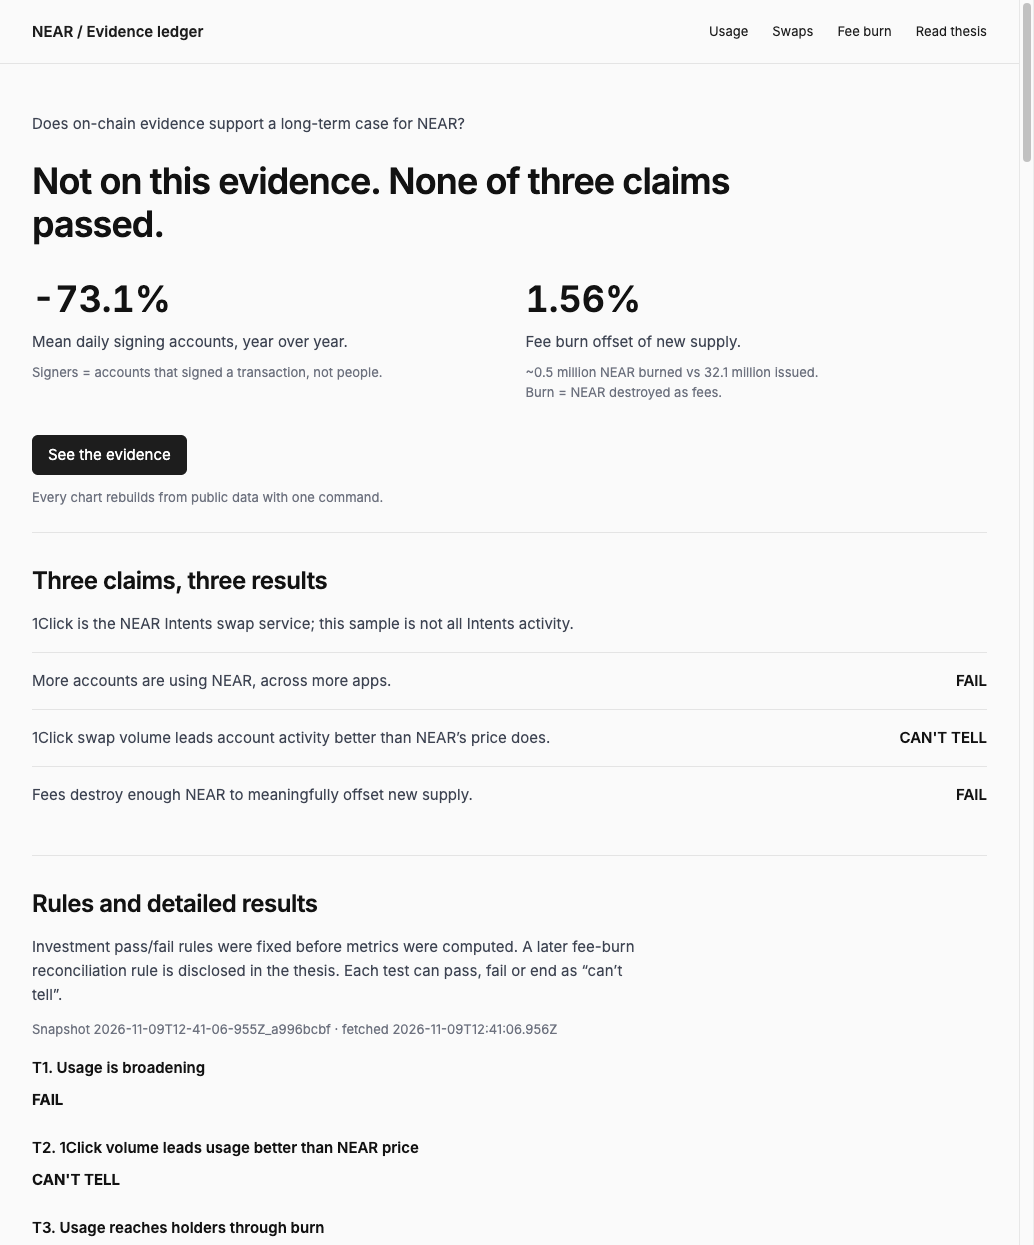
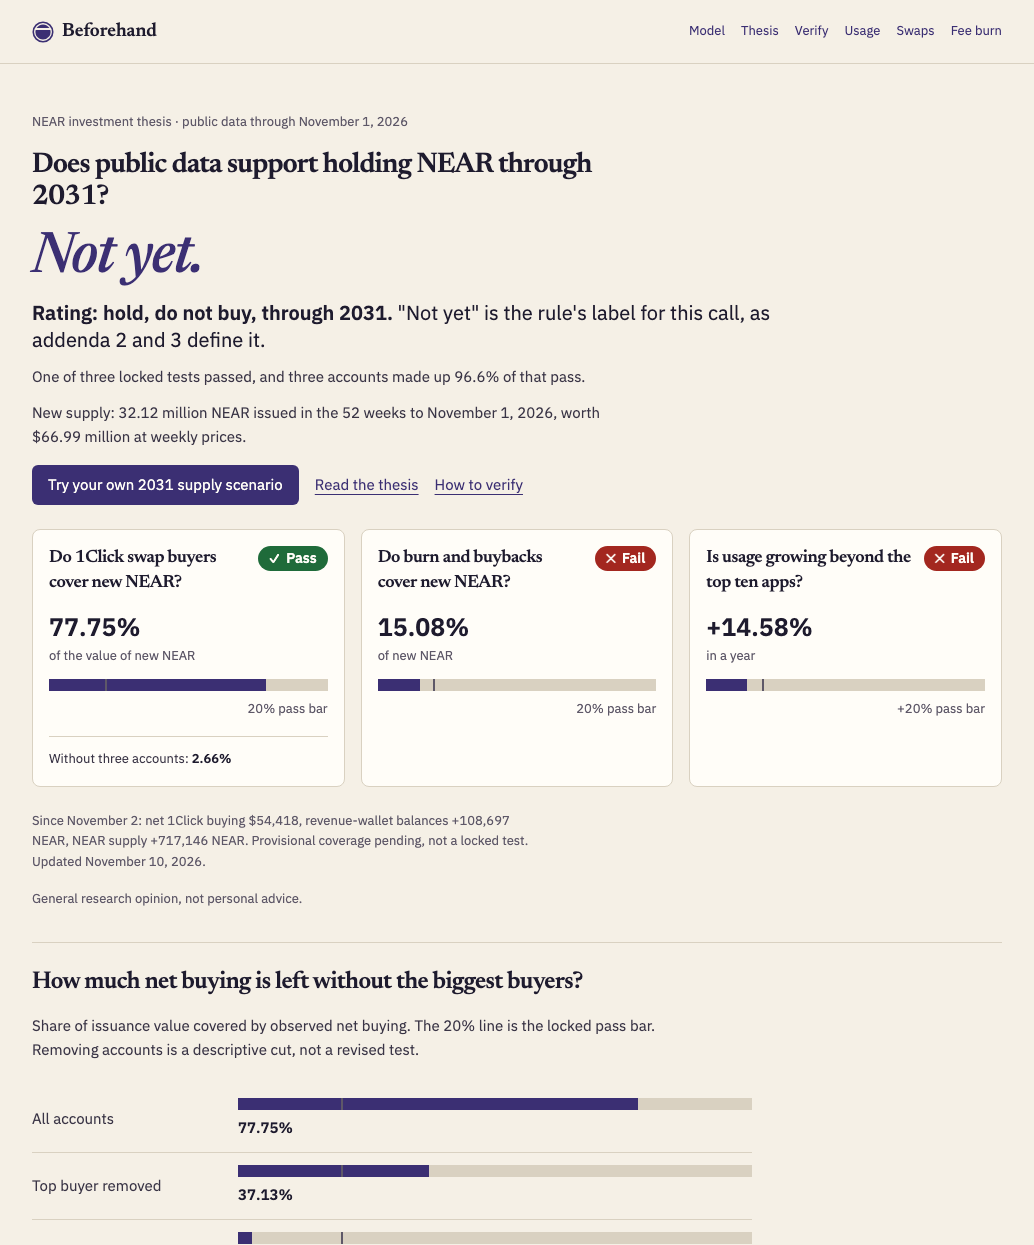
Retake the headline screenshot with the new headings and look
The old 01-headline.png showed a first screen from before the "Not yet."
call. The new one is captured from the current build at the same size.

diff --git a/VALIDATION.md b/VALIDATION.md
@@ -78,7 +78,7 @@ Run over all 7,513 saved pages after `complete.json` was written (2026-11-09T12:
 - Axe-core 4.12.1 (`wcag2a,wcag2aa`) reports zero violations on the responsive dashboard harness and thesis page. An initial wide-table keyboard-focus finding was fixed with focusable table wrappers. Offscreen table cells remain marked incomplete for automated contrast review; computed foreground/background checks give a minimum 4.63:1 for both dashboard result tables and thesis tables, above 4.5:1.
 - The two result tables in the rules section have no height limit; at every harness width their scroll height equals their visible height (the sensitivity table is 412 px at 1280 px), so no row hides behind an inner scrollbar. The long values tables in the expandable sections keep the 400 px limit.
 - The real **See the evidence** link sets `#signers` and scrolls the first chart to y=47.75 after smooth scrolling settles.
-- Seven real screenshots in `docs/screens/` were captured from the final rebuilt pages at the browser pane's native size, not from the layout harness. They are 79,761–191,614 bytes each, below 400 KB, and have one-sentence captions in README. After the result-table and first-screen fixes, 01–06 were retaken from the final build; 07 was recaptured and was byte-identical, so it was kept.
+- Seven real screenshots in `docs/screens/` were captured from the final rebuilt pages at the browser pane's native size, not from the layout harness. They are 79,761–191,614 bytes each, below 400 KB, and have one-sentence captions in README. After the result-table and first-screen fixes, 01–06 were retaken from the final build; 07 was recaptured and was byte-identical, so it was kept. On 2026-11-14, 01 was retaken after the heading rewrite and the Beforehand look, with headless Chrome at 1034×1245 and device scale 1; 02–07 still show the earlier look.
 - During validation, the artifact-equality CLI test caught HTML generated before the table-focus change. Rebuilding the generated output resolved the mismatch; the final full suite passes all 45 tests.
 
 ## Clean-clone rebuild
